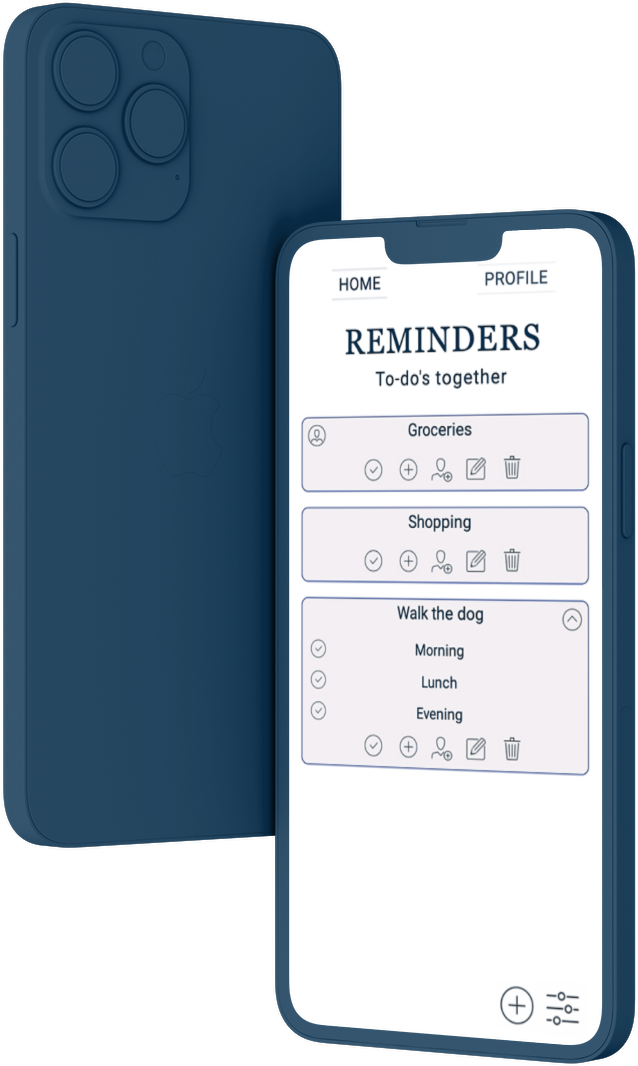
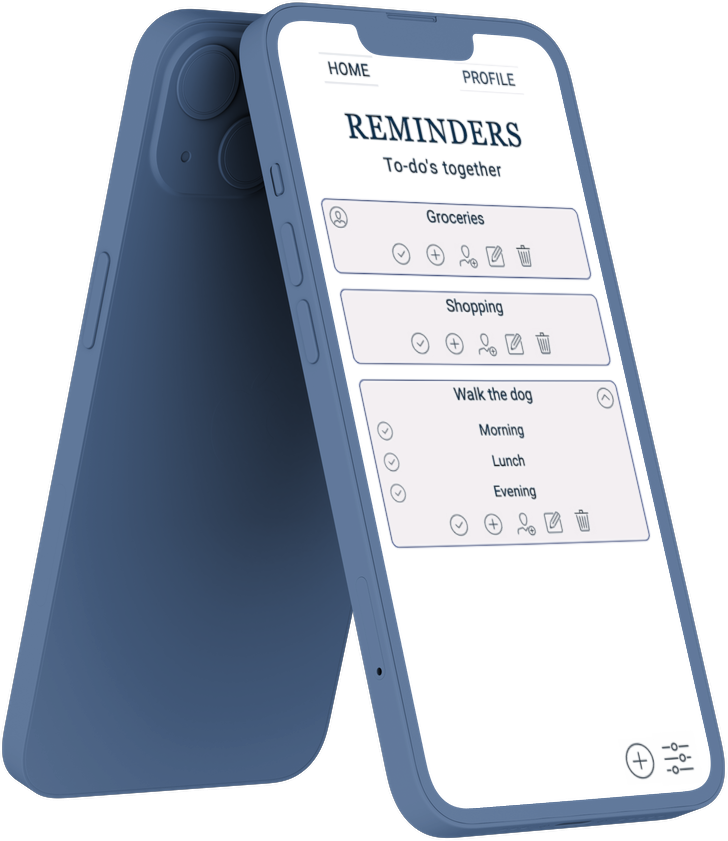
added uber clone and new screenshot of reminders

diff --git a/src/data/portfolioItems.js b/src/data/portfolioItems.js
@@ -1,7 +1,7 @@
 import eatsy from '../images/eatsy.png';
 import reminders from '../images/reminders.png';
 import workouts from '../images/workout.png';
-import todo from '../images/todo2.png';
+import uberclone from '../images/uberclone.png';
 import portfolio from '../images/portfolio.png';
 import react from '../images/logo/react.png'
 import express from '../images/logo/express.png'
@@ -12,6 +12,7 @@ import docker from '../images/logo/docker.png'
 import typescript from '../images/logo/typescript.png'
 import tailwind from '../images/logo/tailwind.png'
 import heroku from '../images/logo/heroku.png'
+import css from '../images/logo/css3.webp'
 import graphql from '../images/logo/graphql.png'
 import apollo from '../images/logo/apollo.png'
 import netlify from '../images/logo/netlify.webp'
@@ -20,6 +21,7 @@ import socket from '../images/logo/socket.png'
 import firebase from '../images/logo/firebase.png'
 import mongoDB from '../images/logo/mongodb.webp'
 import javascript from '../images/logo/javascript.webp'
+import redux from '../images/logo/redux.webp'
 
 const portfolioItems = [{
     name: 'Eatsy',
@@ -77,19 +79,31 @@ const portfolioItems = [{
     techStack: [javascript, react, sass, netlify]
 },
 {
-    name: "ToDo",
-    text: ['A todo application to help you remember your tasks and mark them as done',
-        'Built purely as a frontend application'
-        ],
-    imageLink: todo,
-    imageAlt: 'Todo app screenshot',
-    webLink: 'https://zen-morse-86e998.netlify.app',
-    gitLink: 'https://github.com/philipdaveby/todo',
+    name: "Uber Clone",
+    text: ['A frontend clone of the popular Uber app to showcase React Native'],
+    imageLink: uberclone,
+    imageAlt: 'Uber app screenshot',
+    webLink: 'https://github.com/philipdaveby/uber-clone',
+    gitLink: 'https://github.com/philipdaveby/uber-clone',
     gridArea: 'portfolio-item-5',
     id: 5,
-    info: "Philip's ToDo app let's you write done things and check them off once done, so you won't forget what to do. This application was built during the bootcamp purely as frontend.",
-    techStack: [javascript, react, sass, netlify]
+    info: 'A frontend clone of the popular Uber app to showcase React Native',
+    techStack: [javascript, react, redux, css, tailwind]
 }
+// {
+//     name: "ToDo",
+//     text: ['A todo application to help you remember your tasks and mark them as done',
+//         'Built purely as a frontend application'
+//         ],
+//     imageLink: todo,
+//     imageAlt: 'Todo app screenshot',
+//     webLink: 'https://zen-morse-86e998.netlify.app',
+//     gitLink: 'https://github.com/philipdaveby/todo',
+//     gridArea: 'portfolio-item-5',
+//     id: 5,
+//     info: "Philip's ToDo app let's you write done things and check them off once done, so you won't forget what to do. This application was built during the bootcamp purely as frontend.",
+//     techStack: [javascript, react, sass, netlify]
+// }
 ];
 
 export default portfolioItems;
